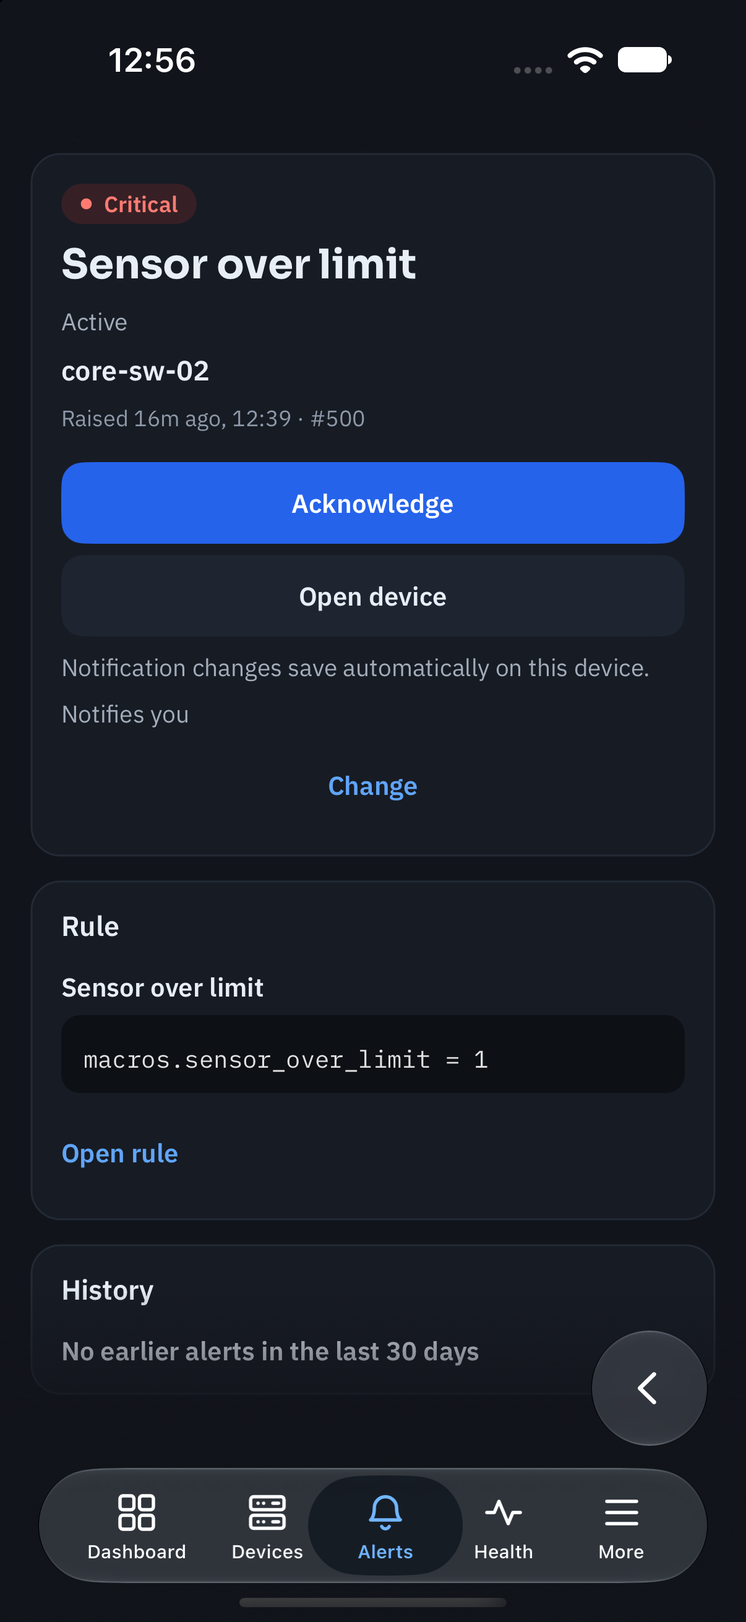
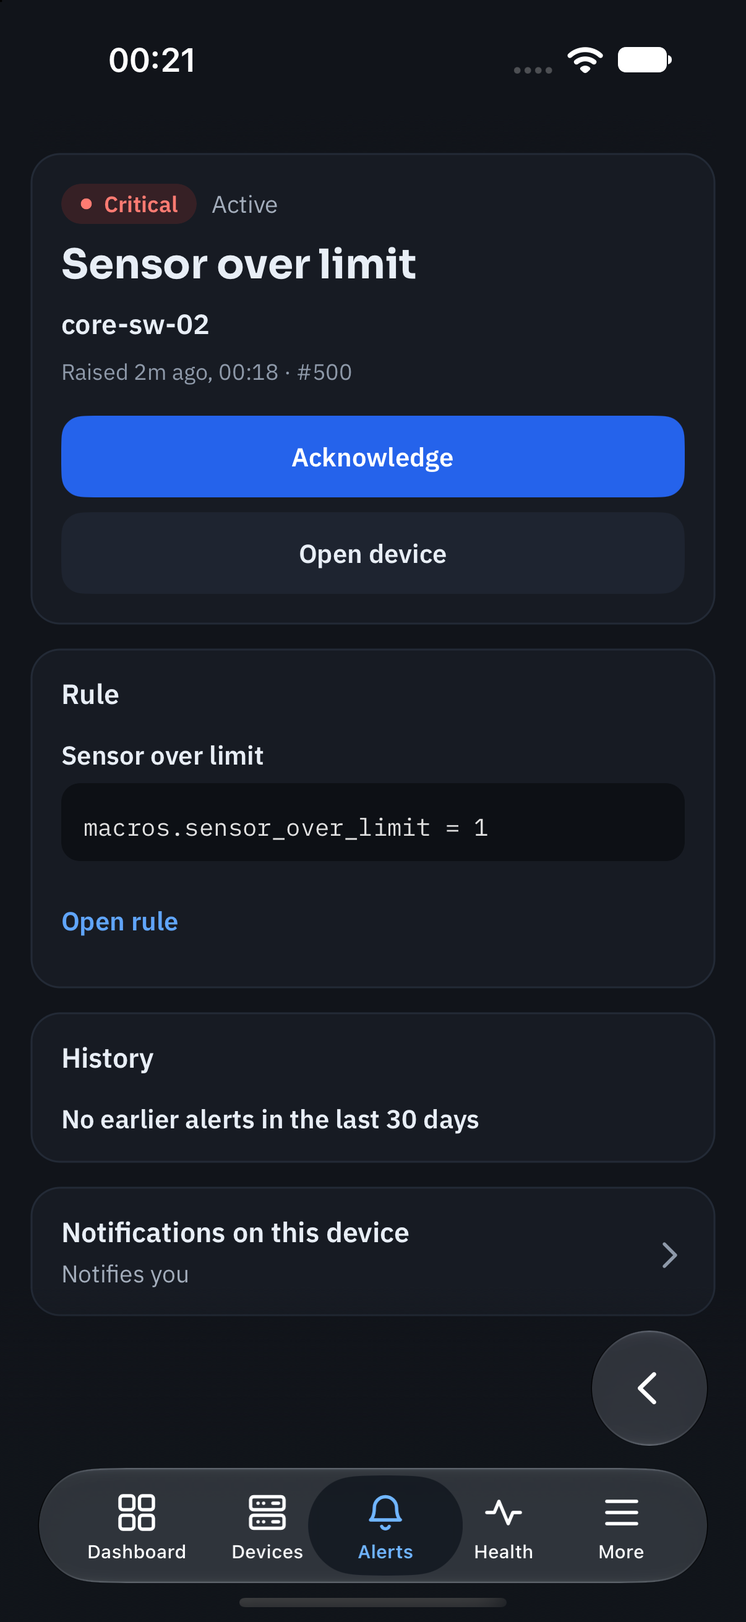
feat(alerts): give local notifications a named action (#728)
Closes #710

## What changes

- Moves local notification preferences out of the alert header card in
`Views/AlertDetailView.xaml` into a compact **Notifications on this
device** card row below incident evidence (`Why it fired`, `Rule`, and
`History`), built with `SettingsOverviewRow` (single native button >=
52pt, joined accessible description, non-accessible `Path` disclosure
chevron, wrapping text, and full-card press/focus feedback via
`ContentPadding`).
- Keeps severity, acknowledgement state, rule, device, raised time,
notes, and primary/secondary actions (`Acknowledge` / `Unacknowledge`
and `Open device`) grouped cleanly in the header card, placing the
severity pill and state side by side.
- Updates `AlertDetailViewModel.ChangeNotificationsAsync` and adds
`DescribeNotificationChoice` so the chooser states the explicit rule or
device scope for each option (`Don't notify on <device>`, `Don't notify
on any device`, `Notify again on <device>`, etc.) without
middle-truncating in iPad action sheets, and explains that changes save
immediately on this device.
- Fixes a VoiceOver accessibility issue in `AskIntelligence.cs` on iOS
where setting `SemanticProperties.Hint` on container views
(`ContentView`, `Border`, `Layout`) marked `AlertDetailView` as an
opaque accessibility element on pushed iPhone pages and hid its child
labels and buttons from VoiceOver.

## Validation

- Verified active and acknowledged alerts in Demo Mode across iPhone 18
[…]

diff --git a/src/DashyNMS.Mobile/Views/AlertDetailView.xaml b/src/DashyNMS.Mobile/Views/AlertDetailView.xaml
@@ -57,40 +57,37 @@
 
                     <Border Style="{StaticResource Card}" Padding="16" IsVisible="{Binding HasAlert}">
                         <VerticalStackLayout Spacing="8">
-                            <Border Style="{StaticResource Pill}" BackgroundColor="{Binding Alert.Severity, Converter={StaticResource StatusTint}}">
-                                <HorizontalStackLayout Spacing="6">
-                                    <Ellipse WidthRequest="7" HeightRequest="7" VerticalOptions="Center"
-                                             Fill="{Binding Alert.Severity, Converter={StaticResource StatusText}}" />
-                                    <Label Style="{StaticResource PillText}" Text="{Binding Alert.SeverityText}"
-                                           TextColor="{Binding Alert.Severity, Converter={StaticResource StatusText}}" />
-                                </HorizontalStackLayout>
-                            </Border>
-                            <Label Text="{Binding Alert.Rule}" FontSize="22" FontFamily="Display" />
-                            <Label Text="{Binding Alert.StateText}" Style="{StaticResource Caption}" />
-                            <Label Text="{Binding Alert.Device}" FontFamily="BodySemibold" FontSize="15" />
-                            <Label Style="{StaticResource Faint}" Text="{Binding RaisedText}" />
-                            <Label Style="{StaticResource Caption}" Text="{Binding Alert.Note}" FontAttributes="Italic" IsVisible="{Binding Alert.HasNote}" />
-                            <Label Style="{StaticResource Caption}" Text="{Binding GroupStatusText}" IsVisible="{Binding GroupStatusText, Converter={StaticResource IsNotNull}}" />
+                            <Grid ColumnDefinitions="Auto,*" ColumnSpacing="8">
+                                <Border Style="{StaticResource Pill}" BackgroundColor="{Binding Alert.Severity, Converter={StaticResource StatusTint}}">
+                                    <HorizontalStackLayout Spacing="6">
+                                        <Ellipse WidthRequest="7" HeightRequest="7" VerticalOptions="Center"
+                                                 AutomationProperties.IsInAccessibleTree="False"
+                                                 Fill="{Binding Alert.Severity, Converter={StaticResource StatusText}}" />
+                                        <Label Style="{StaticResource PillText}" Text="{Binding Alert.SeverityText}"
+                                               TextColor="{Binding Alert.Severity, Converter={StaticResource StatusText}}" />
+                                    </HorizontalStackLayout>
+                                </Border>
+                                <Label Grid.Column="1" Text="{Binding Alert.StateText}" Style="{StaticResource Caption}"
+                                       VerticalOptions="Center" LineBreakMode="WordWrap" />
+                            </Grid>
+                            <Label Text="{Binding Alert.Rule}" FontSize="22" FontFamily="Display" LineBreakMode="WordWrap" />
+                            <Label Text="{Binding Alert.Device}" FontFamily="BodySemibold" FontSize="15" LineBreakMode="CharacterWrap" />
+                            <Label Style="{StaticResource Faint}" Text="{Binding RaisedText}" LineBreakMode="WordWrap" />
+                            <Label Style="{StaticResource Caption}" Text="{Binding Alert.Note}" FontAttributes="Italic" IsVisible="{Binding Alert.HasNote}" LineBreakMode="WordWrap" />
+                            <Label Style="{StaticResource Caption}" Text="{Binding GroupStatusText}" IsVisible="{Binding GroupStatusText, Converter={StaticResource IsNotNull}}" LineBreakMode="WordWrap" />
 
-                            <VerticalStackLayout Spacing="6" Margin="0,8,0,0">
+                            <VerticalStackLayout Spacing="8" Margin="0,8,0,0">
                                 <Button Text="{Binding AcknowledgeLabel}" Command="{Binding AcknowledgeCommand}" IsVisible="{Binding CanAcknowledge}" />
                                 <Button Text="{Binding UnacknowledgeLabel}" Style="{StaticResource DetailSecondary}" Command="{Binding UnacknowledgeCommand}" IsVisible="{Binding CanUnacknowledge}" />
                                 <Button Text="Open device" Style="{StaticResource SecondaryButton}" Command="{Binding OpenDeviceCommand}" IsVisible="{Binding HasDevice}" />
                             </VerticalStackLayout>
                             <!-- The token isn't allowed to acknowledge (#144): say why the button's gone. -->
-                            <Label Style="{StaticResource Caption}" Text="{Binding ActionResult}" IsVisible="{Binding ActionResult, Converter={StaticResource IsNotNull}}" />
-                            <Label Style="{StaticResource Caption}" Text="{Binding FaultScopeText}" IsVisible="{Binding FaultScopeText, Converter={StaticResource IsNotNull}}" />
+                            <Label Style="{StaticResource Caption}" Text="{Binding ActionResult}" IsVisible="{Binding ActionResult, Converter={StaticResource IsNotNull}}" LineBreakMode="WordWrap" />
+                            <Label Style="{StaticResource Caption}" Text="{Binding FaultScopeText}" IsVisible="{Binding FaultScopeText, Converter={StaticResource IsNotNull}}" LineBreakMode="WordWrap" />
                             <Button Style="{StaticResource DetailLink}" Text="Acknowledge fault" Command="{Binding AcknowledgeFaultCommand}" IsVisible="{Binding CanAcknowledgeFault}" />
                             <Button Style="{StaticResource DetailLink}" Text="Unacknowledge fault" Command="{Binding UnacknowledgeFaultCommand}" IsVisible="{Binding CanUnacknowledgeFault}" />
                             <Label Style="{StaticResource Caption}" Text="{Binding AcknowledgeRefusedText}"
-                                   IsVisible="{Binding AcknowledgeRefusedText, Converter={StaticResource IsNotNull}}" />
-                            <!-- Which alerts notify (#167): Core's choices for this alert's rule, with Undo - notifications only. -->
-                            <VerticalStackLayout Spacing="8" IsVisible="{Binding CanChangeNotifications}">
-                                <Label Text="Notification changes save automatically on this device." Style="{StaticResource Caption}" />
-                                <Label Style="{StaticResource Caption}" Text="{Binding NotificationsText}" VerticalOptions="Center" />
-                                <Button Style="{StaticResource LinkButton}" Text="Change" Command="{Binding ChangeNotificationsCommand}"
-                                        SemanticProperties.Description="Change notifications for this alert rule and device" MinimumHeightRequest="44" />
-                            </VerticalStackLayout>
+                                   IsVisible="{Binding AcknowledgeRefusedText, Converter={StaticResource IsNotNull}}" LineBreakMode="WordWrap" />
                         </VerticalStackLayout>
                     </Border>
 
@@ -160,12 +157,21 @@
                         </BindableLayout.ItemTemplate>
                     </VerticalStackLayout>
 
+                    <!-- Local notification preference (#167, #710): one compact named row below incident evidence. -->
+                    <Border Style="{StaticResource Card}" Padding="0" IsVisible="{Binding CanChangeNotifications}">
+                        <controls:SettingsOverviewRow
+                            ContentPadding="16,0"
+                            Title="Notifications on this device"
+                            Summary="{Binding NotificationsText}"
+                            Command="{Binding ChangeNotificationsCommand}" />
+                    </Border>
+
                 </VerticalStackLayout>
             </Grid>
         </ScrollView>
     </RefreshView>
     <!-- A notification change just made, with Undo (#167). -->
-    <BoxView x:Name="Fade" HeightRequest="20" VerticalOptions="Start" InputTransparent="True">
+    <BoxView x:Name="Fade" HeightRequest="20" VerticalOptions="Start" InputTransparent="True" AutomationProperties.IsInAccessibleTree="False">
         <BoxView.Background>
             <LinearGradientBrush StartPoint="0,0" EndPoint="0,1">
                 <GradientStop Color="{AppThemeBinding Light={StaticResource BackgroundLight}, Dark={StaticResource BackgroundDark}}" Offset="0" />

diff --git a/tests/DashyNMS.Mobile.Shared.Tests/NotifyRulesTests.cs b/tests/DashyNMS.Mobile.Shared.Tests/NotifyRulesTests.cs
@@ -173,24 +173,96 @@ public sealed class NotifyRulesTests
         client.Alerts.GetAsync(1, Arg.Any<CancellationToken>()).Returns(On(1, 7));
         client.Devices.GetAsync("7", Arg.Any<CancellationToken>()).Returns(Fakes.Device(7, "core-sw", sysName: "core-sw"));
         var dialogs = Substitute.For<IDialogService>();
-        dialogs.ChooseAsync(Arg.Any<string>(), Arg.Any<IReadOnlyList<string>>()).Returns("Don't notify me about this rule on this device");
+        dialogs.ChooseAsync(Arg.Any<string>(), Arg.Any<IReadOnlyList<string>>()).Returns("Don't notify on core-sw");
         var vm = new AlertDetailViewModel(client, _settings, dialogs, new RecordingNavigation(), new SelfActionTracker(), _rules);
         await vm.LoadAsync(1);
         Assert.Equal("Notifies you", vm.NotificationsText);
+        Assert.True(vm.CanAcknowledge);
+        Assert.False(vm.CanUnacknowledge);
+        Assert.False(vm.Alert!.IsAcknowledged);
 
         await vm.ChangeNotificationsCommand.ExecuteAsync(null);
 
-        await dialogs.Received(1).ChooseAsync("Notifications for Rule 1 on core-sw", Arg.Any<IReadOnlyList<string>>());
+        await dialogs.Received(1).ChooseAsync(
+            "Notifications for Rule 1 on core-sw\nChanges save immediately on this device.",
+            Arg.Is<IReadOnlyList<string>>(l => l.SequenceEqual(new[]
+            {
+                "Don't notify on core-sw",
+                "Don't notify on any device",
+            })));
         Assert.False(_rules.Allows(On(1, 7)));
         Assert.True(_rules.Allows(On(1, 9)));
         Assert.Equal("Not notified: Rule 1 on core-sw", vm.NotificationsText);
         Assert.Equal("Not notified: Rule 1 on core-sw", vm.Toast.Message);
+        Assert.True(vm.CanAcknowledge);
+        Assert.False(vm.CanUnacknowledge);
+        Assert.False(vm.Alert.IsAcknowledged);
 
         vm.Toast.UndoCommand.Execute(null);
 
         Assert.True(_rules.Allows(On(1, 7)));
         Assert.Equal("Notifies you", vm.NotificationsText);
         Assert.False(vm.Toast.IsShowing);
+        Assert.True(vm.CanAcknowledge);
+        Assert.False(vm.CanUnacknowledge);
+        Assert.False(vm.Alert.IsAcknowledged);
+    }
+
+    [Fact]
+    public void Notification_choices_state_rule_and_device_scope()
+    {
+        var deviceEntry = new NotificationRuleEntry(10, "Sensor over limit", 7, "core-sw-02");
+        var ruleEntry = new NotificationRuleEntry(10, "Sensor over limit");
+
+        Assert.Equal("Don't notify on core-sw-02",
+            AlertDetailViewModel.DescribeNotificationChoice(NotificationRuleAction.LeaveOutOnDevice, "Sensor over limit", "core-sw-02"));
+        Assert.Equal("Don't notify on any device",
+            AlertDetailViewModel.DescribeNotificationChoice(NotificationRuleAction.LeaveOutEverywhere, "Sensor over limit", "core-sw-02"));
+        Assert.Equal("Notify on core-sw-02",
+            AlertDetailViewModel.DescribeNotificationChoice(NotificationRuleAction.OnlyOnDevice, "Sensor over limit", "core-sw-02"));
+        Assert.Equal("Notify on every device",
+            AlertDetailViewModel.DescribeNotificationChoice(NotificationRuleAction.OnlyEverywhere, "Sensor over limit", "core-sw-02"));
+        Assert.Equal("Notify again on core-sw-02",
+            AlertDetailViewModel.DescribeNotificationChoice(NotificationRuleAction.NotifyAgain, "Sensor over limit", "core-sw-02", deviceEntry));
+        Assert.Equal("Notify again on every device",
+            AlertDetailViewModel.DescribeNotificationChoice(NotificationRuleAction.NotifyAgain, "Sensor over limit", "core-sw-02", ruleEntry));
+        Assert.Equal("Stop notifying on core-sw-02",
+            AlertDetailViewModel.DescribeNotificationChoice(NotificationRuleAction.StopOnly, "Sensor over limit", "core-sw-02", deviceEntry));
+        Assert.Equal("Stop notifying on every device",
+            AlertDetailViewModel.DescribeNotificationChoice(NotificationRuleAction.StopOnly, "Sensor over limit", "core-sw-02", ruleEntry));
+    }
+
+    [Fact]
+    public async Task Acknowledged_and_read_only_alerts_change_notifications_without_touching_ack_state()
+    {
+        var acknowledged = Fakes.Alert(1, 7, "critical", acknowledged: true);
+        var client = Fakes.Client(devices: [Fakes.Device(7, "core-sw")]);
+        client.Alerts.GetAsync(1, Arg.Any<CancellationToken>()).Returns(acknowledged);
+        client.Devices.GetAsync("7", Arg.Any<CancellationToken>()).Returns(Fakes.Device(7, "core-sw", sysName: "core-sw"));
+        var permissions = new ApiPermissions();
+        permissions.Learn(HttpMethod.Put, "alerts/1", new LibreNmsApiException("Denied", System.Net.HttpStatusCode.Forbidden));
+        client.Permissions.Returns(permissions);
+
+        var dialogs = Substitute.For<IDialogService>();
+        dialogs.ChooseAsync(Arg.Any<string>(), Arg.Any<IReadOnlyList<string>>()).Returns("Don't notify on any device");
+        var vm = new AlertDetailViewModel(client, _settings, dialogs, new RecordingNavigation(), new SelfActionTracker(), _rules);
+        await vm.LoadAsync(1);
+
+        Assert.True(vm.Alert!.IsAcknowledged);
+        Assert.False(vm.CanAcknowledge);
+        Assert.False(vm.CanUnacknowledge);
+        Assert.NotNull(vm.AcknowledgeRefusedText);
+        Assert.True(vm.CanChangeNotifications);
+
+        await vm.ChangeNotificationsCommand.ExecuteAsync(null);
+        Assert.Equal("Not notified: Rule 1, on every device", vm.NotificationsText);
+        Assert.True(vm.Alert.IsAcknowledged);
+        Assert.False(vm.CanAcknowledge);
+        Assert.False(vm.CanUnacknowledge);
+
+        vm.Toast.UndoCommand.Execute(null);
+        Assert.Equal("Notifies you", vm.NotificationsText);
+        Assert.True(vm.Alert.IsAcknowledged);
     }
 
     [Fact]

diff --git a/src/DashyNMS.Mobile/Controls/SettingsOverviewRow.cs b/src/DashyNMS.Mobile/Controls/SettingsOverviewRow.cs
@@ -14,6 +14,7 @@ public sealed class SettingsOverviewRow : Grid
     public static readonly BindableProperty ShowLogoProperty = BindableProperty.Create(nameof(ShowLogo), typeof(bool), typeof(SettingsOverviewRow), false, propertyChanged: Changed);
     public static readonly BindableProperty ShowChevronProperty = BindableProperty.Create(nameof(ShowChevron), typeof(bool), typeof(SettingsOverviewRow), true, propertyChanged: Changed);
     public static readonly BindableProperty IsCurrentProperty = BindableProperty.Create(nameof(IsCurrent), typeof(bool), typeof(SettingsOverviewRow), false, propertyChanged: Changed);
+    public static readonly BindableProperty ContentPaddingProperty = BindableProperty.Create(nameof(ContentPadding), typeof(Thickness), typeof(SettingsOverviewRow), default(Thickness), propertyChanged: Changed);
     private static readonly Geometry ChevronGeometry = (Geometry)new PathGeometryConverter().ConvertFromInvariantString("M9 6L15 12L9 18")!;
     private readonly Image _logo = new() { Source = "dashynms_logo.png", WidthRequest = 54, HeightRequest = 54, HorizontalOptions = LayoutOptions.Start, VerticalOptions = LayoutOptions.Center, InputTransparent = true, IsVisible = false };
     private readonly Microsoft.Maui.Controls.Shapes.Path _chevron = new()
@@ -29,6 +30,7 @@ public sealed class SettingsOverviewRow : Grid
         VerticalOptions = LayoutOptions.Center,
         InputTransparent = true,
     };
+    private readonly VerticalStackLayout _text = new() { VerticalOptions = LayoutOptions.Center, Padding = new Thickness(0, 14), Spacing = 4, InputTransparent = true };
     private readonly Label _title = new() { FontSize = 15, FontFamily = "BodySemibold", LineBreakMode = LineBreakMode.WordWrap };
     private readonly Label _summary = new() { Style = (Style)Application.Current!.Resources["Caption"], LineBreakMode = LineBreakMode.WordWrap };
     private readonly Button _action = new() { Style = new Style(typeof(Button)), BackgroundColor = Colors.Transparent, BorderWidth = 0, Text = string.Empty, MinimumHeightRequest = 52, Padding = 0 };
@@ -42,13 +44,12 @@ public sealed class SettingsOverviewRow : Grid
         _chevron.SetAppThemeColor(Shape.StrokeProperty,
             (Color)Application.Current!.Resources["TextFaintLight"],
             (Color)Application.Current!.Resources["TextFaintDark"]);
-        var text = new VerticalStackLayout { VerticalOptions = LayoutOptions.Center, Padding = new Thickness(0, 14), Spacing = 4, InputTransparent = true };
-        text.Add(_title);
-        text.Add(_summary);
-        AutomationProperties.SetIsInAccessibleTree(text, false);
-        AutomationProperties.SetExcludedWithChildren(text, true);
-        SetColumn((IView)text, 1);
-        Add(text);
+        _text.Add(_title);
+        _text.Add(_summary);
+        AutomationProperties.SetIsInAccessibleTree(_text, false);
+        AutomationProperties.SetExcludedWithChildren(_text, true);
+        SetColumn((IView)_text, 1);
+        Add(_text);
         AutomationProperties.SetIsInAccessibleTree(_logo, false);
         Add(_logo);
         AutomationProperties.SetIsInAccessibleTree(_chevron, false);
@@ -82,6 +83,8 @@ public sealed class SettingsOverviewRow : Grid
     public bool ShowChevron { get => (bool)GetValue(ShowChevronProperty); set => SetValue(ShowChevronProperty, value); }
     /// <summary>What this row opens is already showing beside the list.</summary>
     public bool IsCurrent { get => (bool)GetValue(IsCurrentProperty); set => SetValue(IsCurrentProperty, value); }
+    /// <summary>Inset applied to the row's content while the native button fills the container edge-to-edge.</summary>
+    public Thickness ContentPadding { get => (Thickness)GetValue(ContentPaddingProperty); set => SetValue(ContentPaddingProperty, value); }
     public string Summary { get => (string)GetValue(SummaryProperty); set => SetValue(SummaryProperty, value); }
     public Color? SummaryTextColor { get => (Color?)GetValue(SummaryTextColorProperty); set => SetValue(SummaryTextColorProperty, value); }
     public ICommand? Command { get => (ICommand?)GetValue(CommandProperty); set => SetValue(CommandProperty, value); }
@@ -95,6 +98,8 @@ public sealed class SettingsOverviewRow : Grid
         _logo.IsVisible = ShowLogo;
         _title.LineBreakMode = ShowLogo ? LineBreakMode.CharacterWrap : LineBreakMode.WordWrap;
         ColumnDefinitions[0].Width = new GridLength(ShowLogo ? 68 : 0);
+        _text.Padding = new Thickness(ContentPadding.Left, 14 + ContentPadding.Top, 0, 14 + ContentPadding.Bottom);
+        _chevron.Margin = new Thickness(12, 0, ContentPadding.Right, 0);
         _chevron.IsVisible = ShowChevron;
         _summary.Text = Summary;
         if (SummaryTextColor is { } colour) _summary.TextColor = colour;

diff --git a/src/DashyNMS.Mobile.Shared/ViewModels/AlertDetailViewModel.cs b/src/DashyNMS.Mobile.Shared/ViewModels/AlertDetailViewModel.cs
@@ -344,10 +344,11 @@ public sealed partial class AlertDetailViewModel : ViewModelBase, IRefreshable
     public UndoToast Toast { get; } = new();
 
     /// <summary>
-    /// Core's choices for this alert's rule on its device, in Core's words -
-    /// the same as desktop's right-click (#167): leave it out, notify again,
-    /// or in "Only…" add it or stop. Only notifications: the alert still
-    /// lists and counts. Undo puts the rules back.
+    /// Core's choices for this alert's rule on its device (#167, #710): leave it
+    /// out, notify again, or in "Only…" add it or stop. Each choice states its
+    /// rule or device scope, and the chooser explains that changes save
+    /// immediately on this device. Only notifications: the alert still lists,
+    /// counts and keeps its acknowledgement state. Undo puts the rules back.
     /// </summary>
     [RelayCommand]
     private async Task ChangeNotificationsAsync()
@@ -364,8 +365,10 @@ public sealed partial class AlertDetailViewModel : ViewModelBase, IRefreshable
             return;
         }
 
-        var labels = choices.Select(c => NotificationRuleChoices.Describe(c)).ToList();
-        var picked = await _dialogs.ChooseAsync($"Notifications for {item.Rule} on {item.Device}", labels);
+        var covering = _rules.Listed.FirstOrDefault(e => e.Covers(alert));
+        var labels = choices.Select(c => DescribeNotificationChoice(c, item.Rule, item.Device, covering)).ToList();
+        var title = $"Notifications for {item.Rule} on {item.Device}\nChanges save immediately on this device.";
+        var picked = await _dialogs.ChooseAsync(title, labels);
         var index = picked is null ? -1 : labels.IndexOf(picked);
         if (index < 0)
         {
@@ -380,6 +383,30 @@ public sealed partial class AlertDetailViewModel : ViewModelBase, IRefreshable
             OnPropertyChanged(nameof(NotificationsText));
         });
     }
+
+    /// <summary>
+    /// Formats a notification choice with its explicit rule or device scope so
+    /// each option stays concise in native action sheets while remaining
+    /// unambiguous beside "Notifications on this device".
+    /// </summary>
+    internal static string DescribeNotificationChoice(
+        NotificationRuleAction action,
+        string ruleName,
+        string deviceName,
+        NotificationRuleEntry? covering = null) => action switch
+    {
+        NotificationRuleAction.LeaveOutOnDevice => $"Don't notify on {deviceName}",
+        NotificationRuleAction.LeaveOutEverywhere => "Don't notify on any device",
+        NotificationRuleAction.OnlyOnDevice => $"Notify on {deviceName}",
+        NotificationRuleAction.OnlyEverywhere => "Notify on every device",
+        NotificationRuleAction.NotifyAgain => covering?.DeviceId is not null
+            ? $"Notify again on {deviceName}"
+            : "Notify again on every device",
+        NotificationRuleAction.StopOnly => covering?.DeviceId is not null
+            ? $"Stop notifying on {deviceName}"
+            : "Stop notifying on every device",
+        _ => NotificationRuleChoices.Describe(action),
+    };
 
     [RelayCommand]
     private Task OpenRuleAsync() => _rule is { } rule

diff --git a/src/DashyNMS.Mobile/Controls/AskIntelligence.cs b/src/DashyNMS.Mobile/Controls/AskIntelligence.cs
@@ -107,15 +107,16 @@ public static class AskIntelligence
             if (originalHint is not null)
             {
 #if IOS
-                // Never set SemanticProperties.Hint on a SwipeView container on iOS:
-                // MAUI marks any container with a semantic hint as IsAccessibilityElement = true,
-                // which turns the entire row into an unnamed opaque cell and hides child labels
-                // and trailing buttons (e.g. Pin) from VoiceOver. Child views already receive
-                // the VoiceOver "Ask Intelligence" custom rotor action via AccessibilityActions.
-                if (view is SwipeView)
+                // Never set SemanticProperties.Hint on a container view (SwipeView,
+                // ContentView, Border, Layout) on iOS: MAUI marks any container with
+                // a semantic hint as IsAccessibilityElement = true, which turns the
+                // entire view into an unnamed opaque element and hides child labels
+                // and buttons from VoiceOver. Child views already receive the
+                // VoiceOver "Ask Intelligence" custom rotor action via AccessibilityActions.
+                if (view is SwipeView or ContentView or Border or Layout)
                 {
-                    if (view.Handler?.PlatformView is UIKit.UIView swipeNative)
-                        swipeNative.IsAccessibilityElement = false;
+                    if (view.Handler?.PlatformView is UIKit.UIView containerNative)
+                        containerNative.IsAccessibilityElement = false;
                 }
                 else
                 {

diff --git a/docs/releases/2.0.0.md b/docs/releases/2.0.0.md
@@ -33,6 +33,7 @@ DashyNMS Mobile 2.0 brings Intelligence, alert groups for LibreNMS 26.10, offlin
 
 ## Fixed
 
+- **Alert detail local notifications.** Local notification preferences move below incident evidence (`Why it fired`, `Rule`, `History`) into a compact **Notifications on this device** row whose chooser states the rule or device scope for each option and notes that changes save immediately on this device (#710).
 - **Status filters on Alerts and Devices.** All four status filters stay visible at rest in a single row, two rows, or a labelled **Status** selector at larger text sizes and short viewports, keeping active status separate from search (#708).
 - **Dashboard Needs attention.** Named filter controls show counts and active state, and empty states distinguish hidden matches (with a card-local **Clear filters** action), scope-limited severities and an empty fleet (#707).
 - **System appearance changes.** Switching between Light and Dark mode while the app is open updates pages, status readings and embedded dashboard and device graphs immediately (#703).

diff --git a/docs/guide/how-to/alerts.md b/docs/guide/how-to/alerts.md
@@ -17,6 +17,7 @@ Tap an alert to open it:
 - **Why it fired** shows the values the rule tests. **Show all fields** adds the rest.
 - The rule's condition, notes and procedure follow.
 - **History** shows how often it's happened before. DashyNMS says when the history is incomplete or couldn't be read.
+- **Notifications on this device** sits below the incident details, shows whether this rule and device currently notify you, and opens choices scoped to the device or rule. Changes save immediately on this device and can be undone from the toast without changing acknowledgement state.
 - **Open device** takes you to the device's page.
 
 ## Acknowledge
